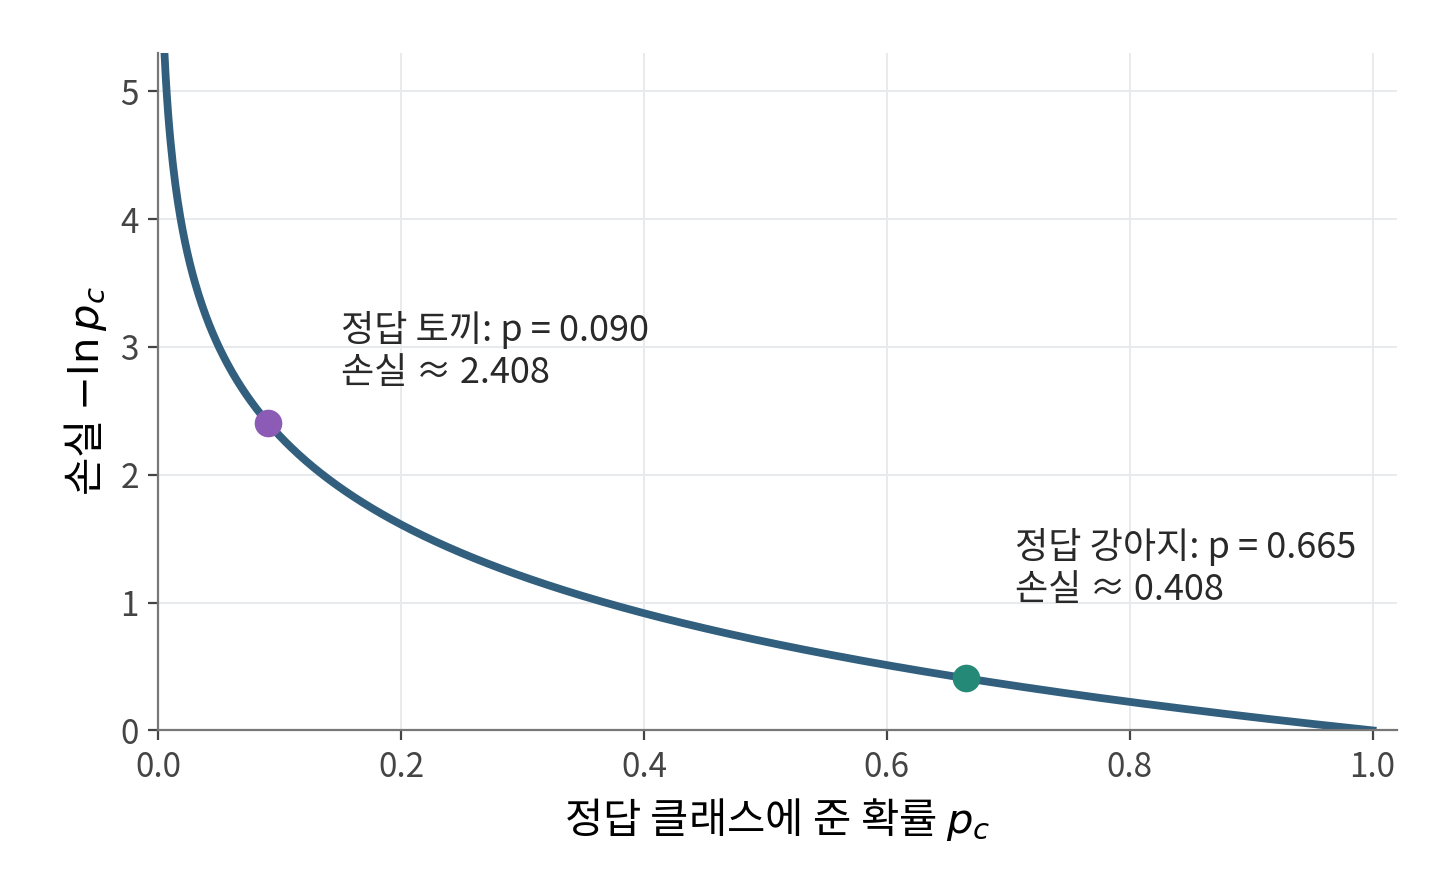
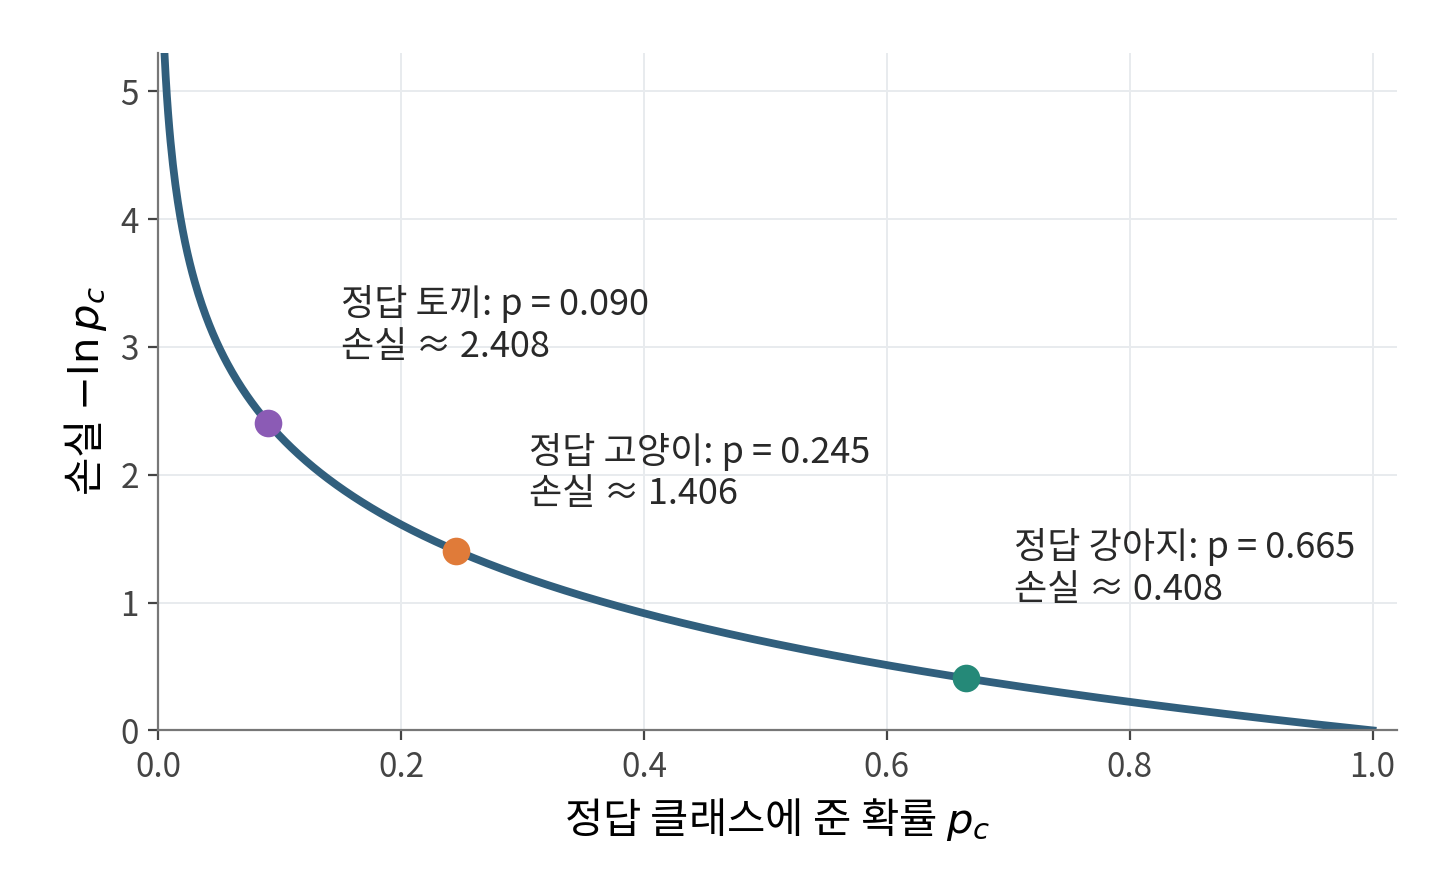
docs: show all three classes on cross entropy loss curve

diff --git a/scripts/figures/ch06_multiclass.py b/scripts/figures/ch06_multiclass.py
@@ -99,8 +99,8 @@ def ce_loss_curve():
     fig.subplots_adjust(left=0.11, right=0.97, bottom=0.17, top=0.94)
     p = np.linspace(0.005, 1, 1000)
     ax.plot(p, -np.log(p), color="#315f7d", linewidth=2.8)
-    for k, dx, dy in ((0, 0.04, 0.55), (2, 0.06, 0.25)):
-        pc = PROBS[k]
+    for k, dx, dy in ((0, 0.04, 0.55), (1, 0.06, 0.30), (2, 0.06, 0.45)):
+        pc = PROBS[k].round(3)
         ax.scatter(pc, -np.log(pc), s=80, color=COLORS[k], zorder=3)
         ax.text(pc + dx, -np.log(pc) + dy,
                 f"정답 {CLASSES[k]}: p = {pc:.3f}\n손실 ≈ {-np.log(pc):.3f}",

diff --git a/site/src/content/notes/Machine Learning｜Deep Learning/deeplearning_06.md b/site/src/content/notes/Machine Learning｜Deep Learning/deeplearning_06.md
@@ -118,11 +118,12 @@ $$
 정답 클래스의 번호를 $c$라 하면 $L_{\mathrm{CE}}=-\ln p_c$입니다. 앞의 softmax 출력 $[0.665,\ 0.245,\ 0.090]$으로 계산하면 다음과 같습니다.
 
 - 정답이 강아지: $-\ln 0.665\approx0.408$
+- 정답이 고양이: $-\ln 0.245\approx1.406$
 - 정답이 토끼: $-\ln 0.090\approx2.408$
 
 정답에 준 확률이 0에 가까울수록 손실은 한없이 커집니다.
 
-<img src="../../../../public/images/notes/easy-deep-learning-ch05/ce-loss-curve.png" alt="정답 클래스에 준 확률 p_c에 따른 손실 −ln p_c 곡선. 정답이 강아지일 때 p=0.665에서 손실 약 0.408, 정답이 토끼일 때 p=0.090에서 손실 약 2.408로 표시되어, 정답 확률이 낮을수록 손실이 급격히 커짐을 보여준다" loading="lazy" width="560" />
+<img src="../../../../public/images/notes/easy-deep-learning-ch05/ce-loss-curve.png" alt="정답 클래스에 준 확률 p_c에 따른 손실 −ln p_c 곡선. 정답이 강아지일 때 p=0.665에서 손실 약 0.408, 정답이 고양이일 때 p=0.245에서 손실 약 1.406, 정답이 토끼일 때 p=0.090에서 손실 약 2.408로 표시되어, 정답 확률이 낮을수록 손실이 급격히 커짐을 보여준다" loading="lazy" width="560" />
 
 
 ### softmax와 함께 미분하기
